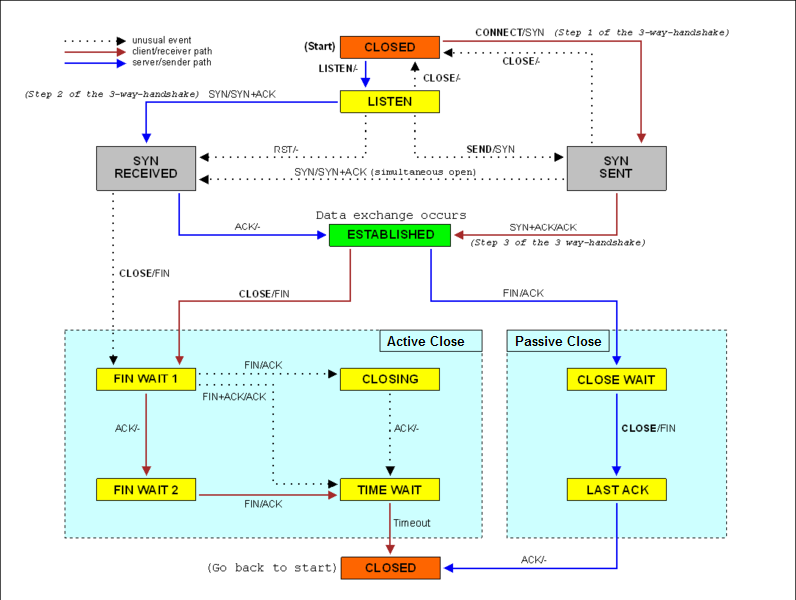
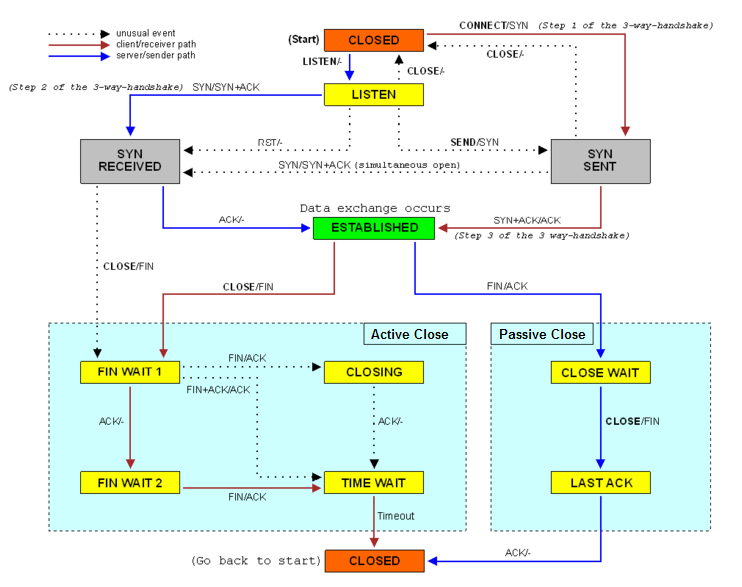
Deploy dduportal/isl-reseau-2018 to github.com/dduportal/isl-reseau-2018.git:gh-pages

diff --git a/index.html b/index.html
@@ -100,29 +100,17 @@ appartiennent toujours à l&#8217;un des réseaux auxquels j&#8217;appartiens</p
 <div class="paragraph small"><small><a href="https://openclassrooms.com/fr/courses/1561696-les-reseaux-de-zero">Source</a></small></div></section><section id="exercice_avec_la_table_de_routage_2_3"><h2>Exercice avec la table de routage 2/3</h2><div class="ulist"><ul><li><p>Quel est la table de routage de 192.168.0.1 ?</p></li></ul></div>
 <aside class="notes"><table class="tableblock frame-all grid-all" style="width:100%"><colgroup><col style="width:50%"><col style="width:50%"></colgroup><thead><tr><th class="tableblock halign-left valign-top">Réseau à joindre</th><th class="tableblock halign-left valign-top">Passerelle</th></tr><tbody><tr><td class="tableblock halign-left valign-top"><p class="tableblock">192.168.0.0/24</p></td><td class="tableblock halign-left valign-top"><p class="tableblock">192.168.0.1</p></td></tr><tr><td class="tableblock halign-left valign-top"><p class="tableblock">0.0.0.0/0</p></td><td class="tableblock halign-left valign-top"><p class="tableblock">192.168.0.254</p></td></tr><tr><td class="tableblock halign-left valign-top"><p class="tableblock">10.0.0.0/24</p></td><td class="tableblock halign-left valign-top"><p class="tableblock">192.168.0.253</p></td></tr></table></aside></section><section id="exercice_avec_la_table_de_routage_3_3"><h2>Exercice avec la table de routage 3/3</h2><div class="ulist"><ul><li><p>Quel est la table de routage de "Routeur 1" ?</p></li></ul></div>
 <aside class="notes"><table class="tableblock frame-all grid-all" style="width:100%"><colgroup><col style="width:50%"><col style="width:50%"></colgroup><thead><tr><th class="tableblock halign-left valign-top">Réseau à joindre</th><th class="tableblock halign-left valign-top">Passerelle</th></tr><tbody><tr><td class="tableblock halign-left valign-top"><p class="tableblock">192.168.0.0/24</p></td><td class="tableblock halign-left valign-top"><p class="tableblock">192.168.0.254</p></td></tr><tr><td class="tableblock halign-left valign-top"><p class="tableblock">192.168.1.0/24</p></td><td class="tableblock halign-left valign-top"><p class="tableblock">192.168.1.254</p></td></tr><tr><td class="tableblock halign-left valign-top"><p class="tableblock">0.0.0.0/0</p></td><td class="tableblock halign-left valign-top"><p class="tableblock">192.168.1.253</p></td></tr><tr><td class="tableblock halign-left valign-top"><p class="tableblock">10.0.0.0/24</p></td><td class="tableblock halign-left valign-top"><p class="tableblock">192.168.0.253</p></td></tr></table></aside></section><section id="pratiquons_avec_la_table_de_routage"><h2>Pratiquons avec la table de routage</h2><div class="listingblock"><div class="content"><pre class="highlight"><code data-noescape>sudo su - # Become root
-netstat -rn # Show Tables</code></pre></div></div></section><section id="exercice_avec_nmap"><h2>Exercice avec nmap</h2><div class="listingblock"><div class="content"><pre class="highlight"><code data-noescape>nmap -sN 192.168.2.0/16 # Découverte des IPs sur le réseau</code></pre></div></div></section></section>
+netstat -rn # Show Tables</code></pre></div></div></section><section id="nat"><h2>NAT</h2><div class="ulist"><ul><li><p>NAT = "Network Adress Translation"</p></li><li><p>1 IP privée == 1 IP publique</p></li></ul></div></section><section id="nat_en_image" data-background-color="white" data-state="invert"><h2>NAT en image</h2><div class="imageblock" style=""><img src="images/nat-static.jpg" alt="nat static" height="500"></div></section><section id="exercice_avec_nmap"><h2>Exercice avec nmap</h2><div class="listingblock"><div class="content"><pre class="highlight"><code data-noescape>nmap -sN 192.168.2.0/16 # Découverte des IPs sur le réseau</code></pre></div></div></section></section>
 <section><section id="couche_transport"><h2>Couche "Transport"</h2><div class="paragraph"><p>Modèle "Internet Protocol"</p></div></section><section id="o_sommes_nous_3" data-background-color="white" data-state="invert"><h2>Où sommes nous ?</h2><div class="imageblock" style=""><img src="images/tcp-ip-modele-transport.png" alt="tcp ip modele transport"></div></section><section id="buts_de_la_couche_transport"><h2>Buts de la couche "Transport"</h2><div class="ulist"><ul><li><p>Garantie des niveaux de service de la communication</p></li><li><p>Gestion du niveau d&#8217;intégrité des données transmises</p></li></ul></div></section><section id="encore_une_adresse"><h2>Encore une adresse !</h2><div class="ulist"><ul><li><p>Problème :</p><div class="ulist"><ul><li><p>On sait dialoguer entre machines</p></li><li><p>Une machine possède plusieurs applications</p></li></ul></div></li><li><p>Comment faire le lien entre X application et 1 machine ?</p><div class="ulist"><ul><li><p>Il faut une adresse par application</p></li></ul></div></li></ul></div></section><section id="port_l_adresse_de_la_couche_transport" data-background-color="white" data-state="invert"><h2>Port : l&#8217;adresse de la couche Transport</h2><div class="ulist"><ul><li><p>Idée : on associe 1 nombre entier par application</p><div class="ulist"><ul><li><p>C&#8217;est ce qu&#8217;on appelle le "port"</p></li></ul></div></li><li><p>On peut donc "multiplexer" pour une même adresse IP</p></li></ul></div>
-<div class="imageblock" style=""><img src="images/tcp-ip-ports-sockets.jpg" alt="tcp ip ports sockets" height="200"></div></section><section id="problmes_de_la_couche_rseau"><h2>Problèmes de la couche Réseau</h2><div class="ulist"><ul><li><p>Le rôle de la couche réseau est de "router" de la donnée d&#8217;un hôte à un autre.</p></li><li><p>Et c&#8217;est tout !</p><div class="ulist"><ul><li><p>Pas sûr que les paquets arrivent (Ping ? ICMP!)</p></li><li><p>Pas de contrôle d&#8217;intégrité</p></li><li><p>Pas de garantie d&#8217;ordre d&#8217;arrivée</p></li></ul></div></li></ul></div></section><section id="protocoles_de_transport"><h2>Protocoles de Transport</h2><div class="ulist"><ul><li><p>Il faut des protocoles de communication au dessus de IP</p><div class="ulist"><ul><li><p>On est dans une couche virtuelle: tout est possible!</p></li></ul></div></li><li><p>Protocoles étudiés:</p><div class="ulist"><ul><li><p>TCP</p></li><li><p>UDP</p></li></ul></div></li><li><p>Protocoles "mentionnés"</p><div class="ulist"><ul><li><p><a href="https://en.wikipedia.org/wiki/QUIC">QUIC (Google, 201x)</a></p></li><li><p><a href="https://en.wikipedia.org/wiki/Stream_Control_Transmission_Protocol">SCTP</a></p></li></ul></div></li></ul></div></section><section id="tcp"><h2>TCP</h2><div class="ulist"><ul><li><p>TCP = "Transmission Control Protocol"</p></li><li><p><a href="https://tools.ietf.org/html/rfc793">RFC 793</a></p></li><li><p>Unité de donnée : "paquets TCP"</p></li><li><p>Se base sur IP pour la couche réseau</p></li></ul></div></section><section id="caractristisques_de_tcp"><h2>Caractéristisques de TCP</h2><div class="ulist"><ul><li><p>Mode "connecté" entre 2 ports&#8230;&#8203; de 2 hôtes différents</p></li><li><p>Garantie un bon acheminement des données</p></li><li><p>Mémorisation des données</p></li><li><p>Indépendant vis-à-vis des données transportées (comme IP)</p></li><li><p>"Communication bi-directionnelle" (full duplex) : échange dans les 2 sens <strong>en même temps</strong></p></li></ul></div></section><section id="tcp_dans_tous_ses_tats"><h2>TCP dans tous ses "états"</h2><div class="imageblock" style=""><img src="images/tcp-state-diagram.png" alt="tcp state diagram" height="500"></div></section><section id="tcp_protocole_et_poignes_de_mains"><h2>TCP : Protocole et poignées de mains</h2><div class="imageblock" style=""><img src="images/tcp-connect.png" alt="tcp connect" height="500"></div></section><section id="udp"><h2>UDP</h2></section><section id="pratique_voir_les_ports"><h2>Pratique : voir les Ports</h2><div class="listingblock"><div class="content"><pre class="highlight"><code data-noescape>$ sudo netstat -anptu4
-Active Internet connections (servers and established)
-Proto Recv-Q Send-Q Local Address           Foreign Address         State       PID/Program name
-tcp        0      0 127.0.0.1:10248         0.0.0.0:*               LISTEN      1863/kubelet
-tcp        0      0 127.0.0.1:10249         0.0.0.0:*               LISTEN      2076/kube-proxy
-tcp        0      0 0.0.0.0:5355            0.0.0.0:*               LISTEN      369/systemd-resolve
-tcp        0      0 127.0.0.1:43405         0.0.0.0:*               LISTEN      1863/kubelet
-tcp        0      0 0.0.0.0:22              0.0.0.0:*               LISTEN      432/sshd
-tcp        0    196 192.168.0.9:22          192.168.0.18:61667      ESTABLISHED 14073/sshd: pirate
-udp        0      0 127.0.0.53:53           0.0.0.0:*                           369/systemd-resolve
-udp        0      0 0.0.0.0:68              0.0.0.0:*                           325/dhcpcd
-udp        0      0 169.254.47.88:123       0.0.0.0:*                           409/ntpd
-udp        0      0 10.244.2.0:123          0.0.0.0:*                           409/ntpd
-udp        0      0 192.168.0.9:123         0.0.0.0:*                           409/ntpd
-udp        0      0 127.0.0.1:123           0.0.0.0:*                           409/ntpd
-udp        0      0 0.0.0.0:123             0.0.0.0:*                           409/ntpd
-udp        0      0 0.0.0.0:32892           0.0.0.0:*                           361/avahi-daemon: r
-udp        0      0 0.0.0.0:5353            0.0.0.0:*                           361/avahi-daemon: r
-udp        0      0 0.0.0.0:5355            0.0.0.0:*                           369/systemd-resolve
-udp        0      0 0.0.0.0:8472            0.0.0.0:*                           -</code></pre></div></div></section><section id="translation_de_port_rseau"><h2>Translation de port réseau</h2></section><section id="rappel_router"><h2>Rappel Router</h2></section><section id="exercice_avec_nmap_2"><h2>Exercice avec nmap</h2></section></section>
-<section><section id="couche_application"><h2>Couche "Application"</h2><div class="paragraph"><p>Modèle "Internet Protocol"</p></div></section><section id="o_sommes_nous_4" data-background-color="white" data-state="invert"><h2>Où sommes nous ?</h2><div class="imageblock" style=""><img src="images/tcp-ip-modele-application.png" alt="tcp ip modele application"></div></section><section id="buts_de_la_couche_application"><h2>Buts de la couche "Application"</h2><div class="ulist"><ul><li><p>C&#8217;est ici que se passe votre travail</p></li><li><p>Communications de haut niveau entre des processus distants</p></li><li><p>Plein de protocoles connus se trouvent ici: HTTP, SSH, FTP, P2P, etc.</p></li></ul></div></section><section id="dns"><h2>DNS</h2></section><section id="exercices_avec_dns"><h2>Exercices avec DNS</h2></section><section id="ssh"><h2>SSH</h2></section><section id="exercices_avec_ssh"><h2>Exercices avec SSH</h2></section><section id="http"><h2>HTTP</h2></section></section>
+<div class="imageblock" style=""><img src="images/tcp-ip-ports-sockets.jpg" alt="tcp ip ports sockets" height="200"></div></section><section id="problmes_de_la_couche_rseau"><h2>Problèmes de la couche Réseau</h2><div class="ulist"><ul><li><p>Le rôle de la couche réseau est de "router" de la donnée d&#8217;un hôte à un autre.</p></li><li><p>Et c&#8217;est tout !</p><div class="ulist"><ul><li><p>Pas sûr que les paquets arrivent (Ping ? ICMP!)</p></li><li><p>Pas de contrôle d&#8217;intégrité</p></li><li><p>Pas de garantie d&#8217;ordre d&#8217;arrivée</p></li></ul></div></li></ul></div></section><section id="protocoles_de_transport"><h2>Protocoles de Transport</h2><div class="ulist"><ul><li><p>Il faut des protocoles de communication au dessus de IP</p><div class="ulist"><ul><li><p>On est dans une couche virtuelle: tout est possible!</p></li></ul></div></li><li><p>Protocoles étudiés:</p><div class="ulist"><ul><li><p>TCP</p></li><li><p>UDP</p></li></ul></div></li><li><p>Protocoles "mentionnés"</p><div class="ulist"><ul><li><p><a href="https://en.wikipedia.org/wiki/QUIC">QUIC (Google, 201x)</a></p></li><li><p><a href="https://en.wikipedia.org/wiki/Stream_Control_Transmission_Protocol">SCTP</a></p></li></ul></div></li></ul></div></section><section id="tcp"><h2>TCP</h2><div class="ulist"><ul><li><p>TCP = "Transmission Control Protocol"</p></li><li><p><a href="https://tools.ietf.org/html/rfc793">RFC 793</a></p></li><li><p>Unité de donnée : "paquets TCP"</p></li><li><p>Se base sur IP pour la couche réseau</p></li></ul></div></section><section id="caractristisques_de_tcp"><h2>Caractéristisques de TCP</h2><div class="ulist"><ul><li><p>Mode "connecté" entre 2 ports&#8230;&#8203; de 2 hôtes différents</p></li><li><p>Garantie un bon acheminement des données</p></li><li><p>Mémorisation des données</p></li><li><p>Indépendant vis-à-vis des données transportées (comme IP)</p></li><li><p>"Communication bi-directionnelle" (full duplex) : échange dans les 2 sens <strong>en même temps</strong></p></li></ul></div></section><section id="tcp_dans_tous_ses_tats" data-background-color="white" data-state="invert"><h2>TCP dans tous ses "états"</h2><div class="imageblock" style=""><img src="images/tcp-state-diagram.png" alt="tcp state diagram" height="550"></div></section><section id="tcp_protocole_et_poignes_de_mains"><h2>TCP : Protocole et poignées de mains</h2><div class="imageblock" style=""><img src="images/tcp-connect.png" alt="tcp connect" height="500"></div></section><section id="limites_de_tcp"><h2>Limites de TCP</h2><div class="ulist"><ul><li><p>Complexe</p></li><li><p>"Couteux" en temps</p><div class="ulist"><ul><li><p>Délai d&#8217;établissement d&#8217;une connexion</p></li><li><p>Nombre d&#8217;aller-retours sur le réseau</p></li></ul></div></li></ul></div></section><section id="udp"><h2>UDP</h2><div class="ulist"><ul><li><p>UDP = "User Datagram Protocol"</p></li><li><p><a href="https://tools.ietf.org/html/rfc768">RFC 768</a></p></li><li><p>Unité de donnée: "datagramme UDP" (comme IP)</p></li><li><p>Se base sur IP pour la couche réseau</p></li></ul></div></section><section id="caractristisques_de_udp"><h2>Caractéristisques de UDP</h2><div class="ulist"><ul><li><p>Concept : "Fire and Forget"</p></li><li><p>Pas de mode connecté: <strong>Simple</strong></p><div class="ulist"><ul><li><p>Pas de garantie d&#8217;arrivée de la donnée</p></li></ul></div></li><li><p>Intégrité de la donnée garanti</p><div class="ulist"><ul><li><p>SI la donnée arrive</p></li></ul></div></li><li><p>Cas d&#8217;usages:</p><div class="ulist"><ul><li><p>Performances</p></li><li><p>Petite quantité de données</p></li></ul></div></li></ul></div></section><section id="pratique_voir_les_ports"><h2>Pratique : voir les Ports</h2><div class="listingblock"><div class="content"><pre class="highlight"><code data-noescape>$ sudo netstat -anpt
+...
+$ sudo netstat -anpt
+...
+$ sudo netstat -anpu
+...
+$ sudo netstat -anptu4
+...</code></pre></div></div></section><section id="pat_nat"><h2>PAT / NAT</h2><div class="ulist"><ul><li><p>Vous vous souvenez du NAT?</p></li><li><p>Problème : On voudrait 1 IP publiques pour X IP privées</p></li><li><p>Solution : utiliser le port</p><div class="ulist"><ul><li><p>PAT = "Port Adresse Translation"</p></li><li><p>Egalement connu comme "NAT Dynamique"</p></li></ul></div></li></ul></div></section><section id="nat_pat_en_image"><h2>NAT/PAT en image</h2><div class="imageblock" style=""><img src="images/pat.jpg" alt="pat" height="550"></div></section></section>
+<section><section id="couche_application"><h2>Couche "Application"</h2><div class="paragraph"><p>Modèle "Internet Protocol"</p></div></section><section id="o_sommes_nous_4" data-background-color="white" data-state="invert"><h2>Où sommes nous ?</h2><div class="imageblock" style=""><img src="images/tcp-ip-modele-application.png" alt="tcp ip modele application"></div></section><section id="buts_de_la_couche_application"><h2>Buts de la couche "Application"</h2><div class="ulist"><ul><li><p>C&#8217;est ici que se passe votre travail</p></li><li><p>Communications de haut niveau entre des processus distants</p></li><li><p>Plein de protocoles connus se trouvent ici: HTTP, SSH, FTP, P2P, etc.</p></li></ul></div></section><section id="dns"><h2>DNS</h2></section><section id="exercices_avec_dns"><h2>Exercices avec DNS</h2></section><section id="ssh"><h2>SSH</h2></section><section id="exercices_avec_ssh"><h2>Exercices avec SSH</h2></section><section id="dhcp"><h2>DHCP</h2></section><section id="exercises_avec_dhcp"><h2>Exercises avec DHCP</h2></section><section id="http"><h2>HTTP</h2></section></section>
 <section id="merci"><h2>Merci</h2></section></div></div><script src="./reveal.js/lib/js/head.min.js"></script><script src="./reveal.js/js/reveal.js"></script><script>// See https://github.com/hakimel/reveal.js#configuration for a full list of configuration options
 Reveal.initialize({
   // Display controls in the bottom right corner
